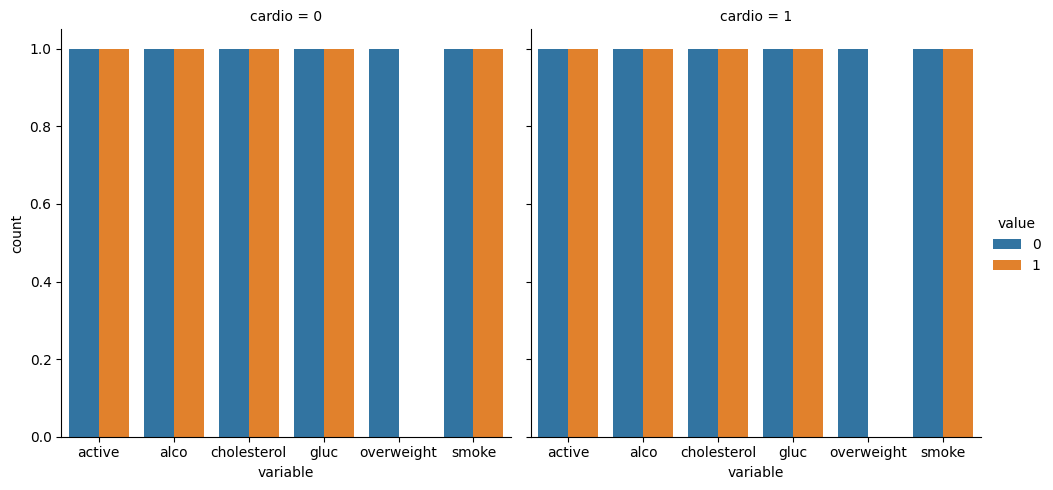
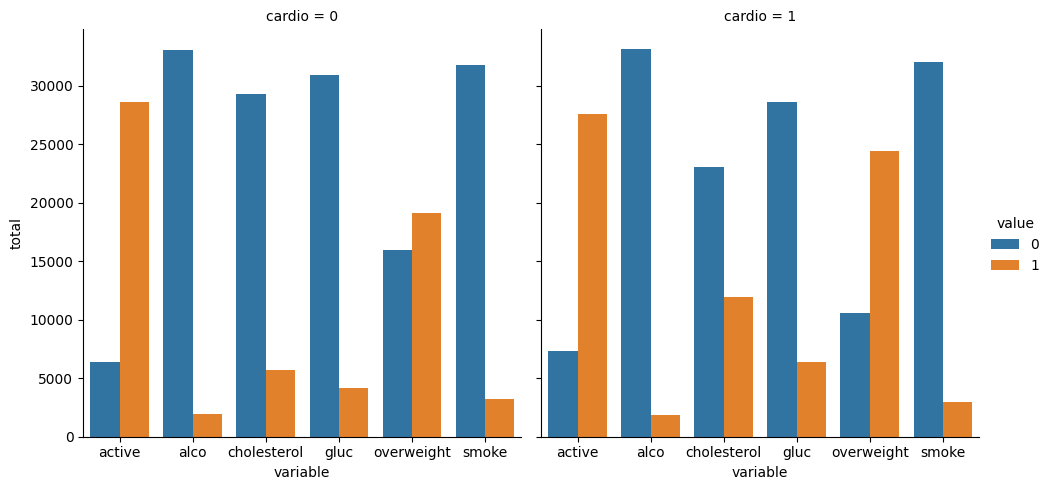
solved catplot

diff --git a/medical_data_visualizer.py b/medical_data_visualizer.py
@@ -7,7 +7,7 @@ import numpy as np
 df = pd.read_csv('medical_examination.csv')
 
 # 2
-df['overweight'] = (df['weight'] / ((df['height']/100)**2)).apply(lambda x: 1 if > 25 else 0)
+df['overweight'] = (df['weight'] / ((df['height']/100)**2)).apply(lambda x: 1 if x > 25 else 0)
 
 # 3
 for field in ['cholesterol','gluc']:
@@ -28,9 +28,9 @@ def draw_cat_plot():
 
 
     # 8
-    fig = sns.catplot(x="variable",
+    fig = sns.catplot(x="variable", y='total',
                 hue="value", col="cardio",
-                data=df_cat, kind='count')
+                data=df_cat, kind='bar')
 
 
     # 9
